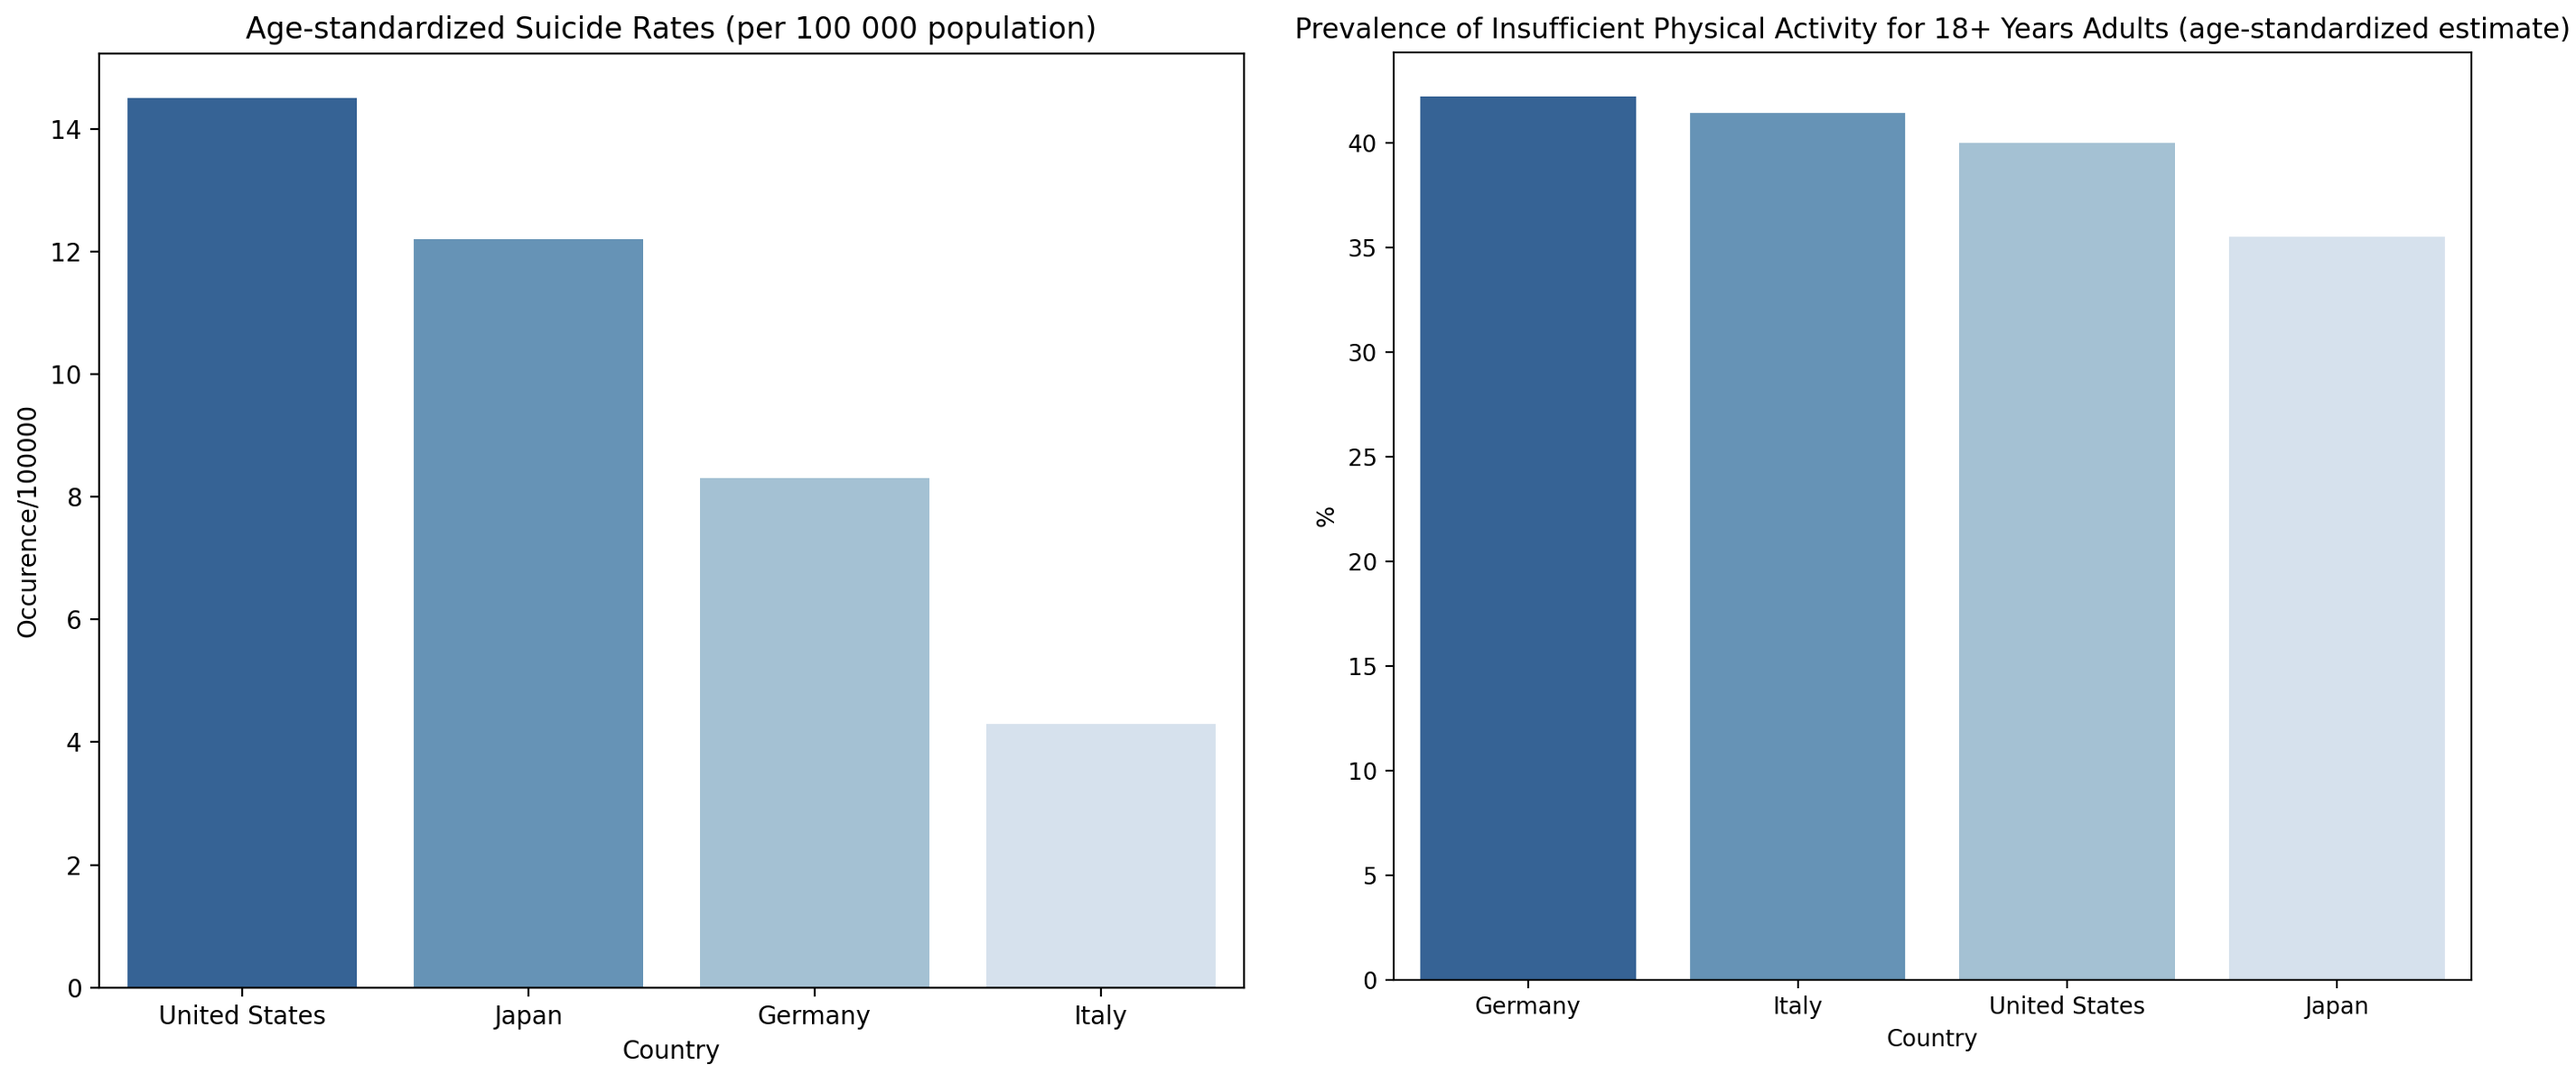
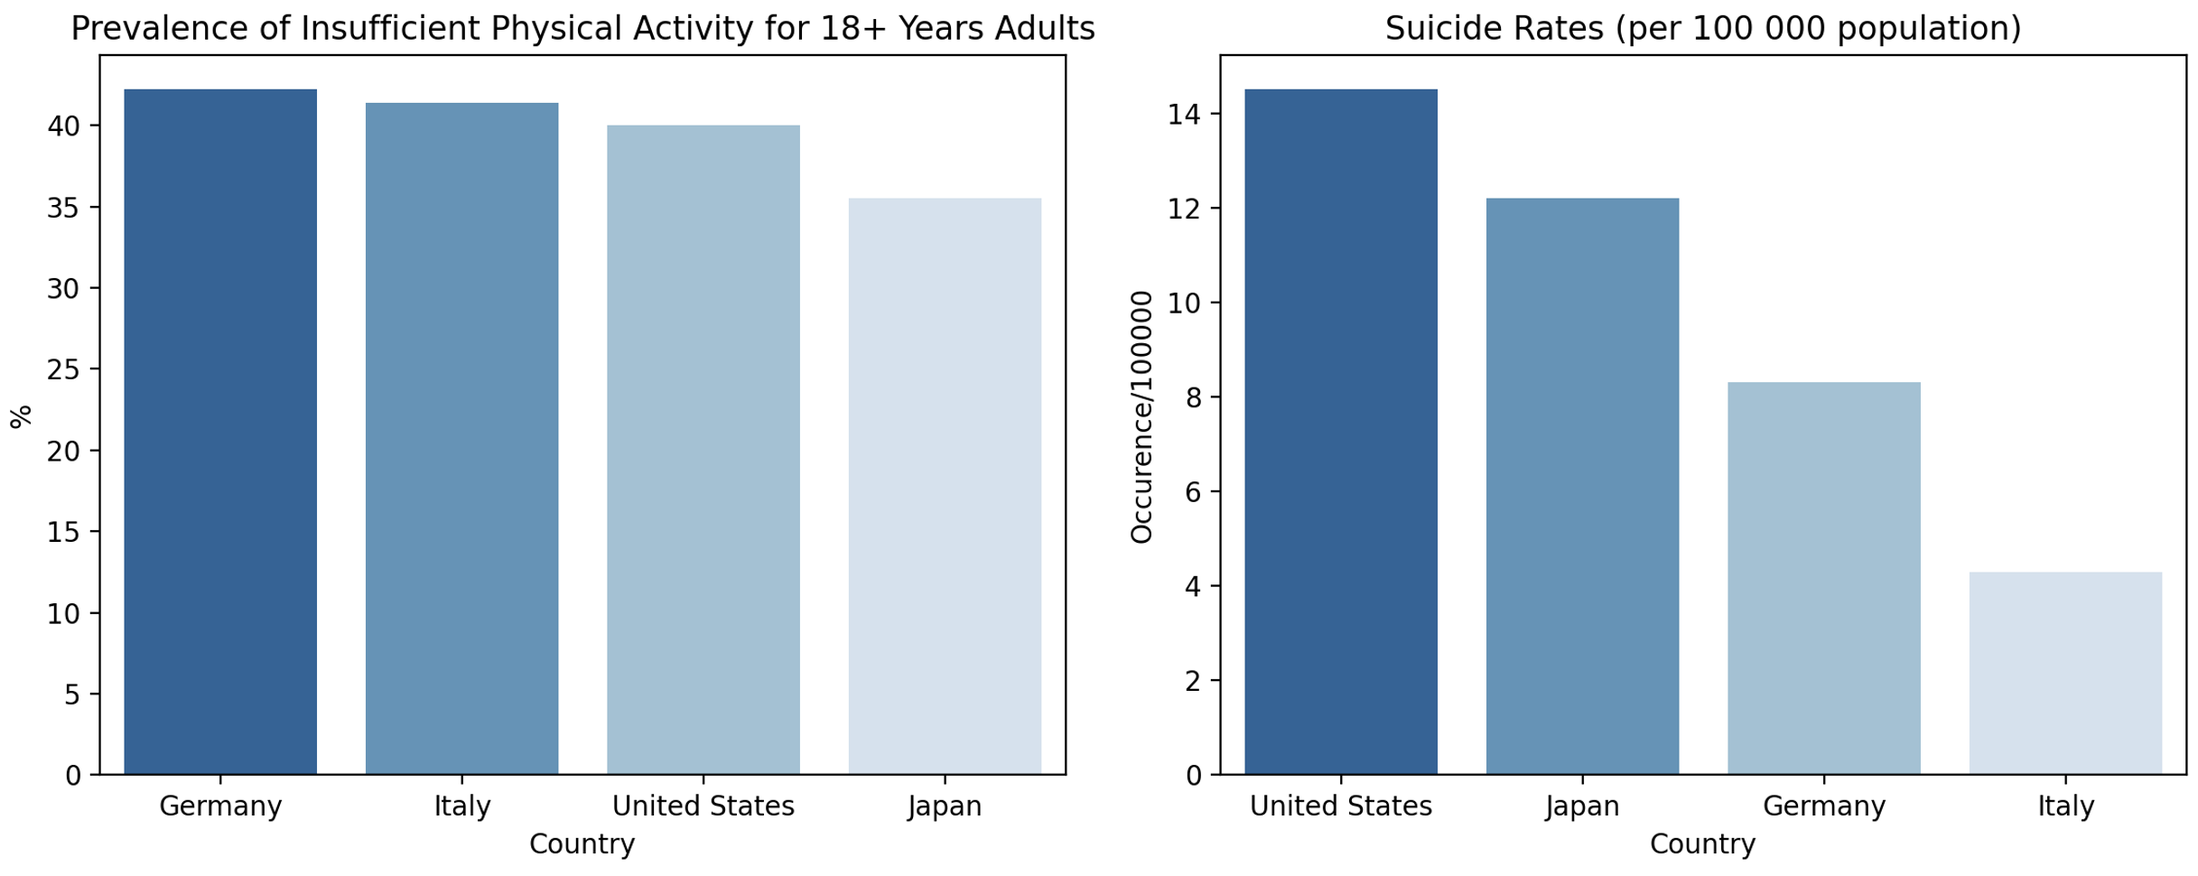
Updated suicide plot

diff --git a/life_ex.py b/life_ex.py
@@ -67,7 +67,7 @@ plt.ylabel('Life expectancy at Birth (years)')
 plt.show()
 
 """
-"""
+
 import pandas as pd
 physical_activity = pd.read_csv('data/physical_ac.csv')
 # only include data for countries USA, Japan, Germany, Italy
@@ -99,10 +99,11 @@ import seaborn as sns
 import matplotlib.pyplot as plt
 # Make bar plot with countries on x axis and Prevalence of insufficient physical activity among adults aged 18+ years (age-standardized estimate) (%) on y axis in sns theme
 sns.barplot(data=physical_activity, x='Country Name', y='Prevalence of Insufficient Physical Activity for 18+ Years Adults (age-standardized estimate)', palette="Blues_r")
-plt.title('Prevalence of Insufficient Physical Activity for 18+ Years Adults (age-standardized estimate)')
+plt.title('Prevalence of Insufficient Physical Activity for 18+ Years Adults')
 plt.ylabel('%') 
 plt.xlabel('Country')
 plt.show()
+
 
 """
 import pandas as pd
@@ -139,10 +140,10 @@ import seaborn as sns
 import matplotlib.pyplot as plt
 # Make bar plot with countries on x axis and Prevalence of insufficient physical activity among adults aged 18+ years (age-standardized estimate) (%) on y axis in sns theme
 sns.barplot(data=sui, x='Unnamed: 0', y='Age-standardized suicide rates (per 100 000 population)', palette="Blues_r")
-plt.title('Age-standardized Suicide Rates (per 100 000 population)')
+plt.title('Suicide Rates (per 100 000 population)')
 plt.ylabel('Occurence/100000') 
 plt.xlabel('Country')
 plt.show()
-
+"""
 
 
